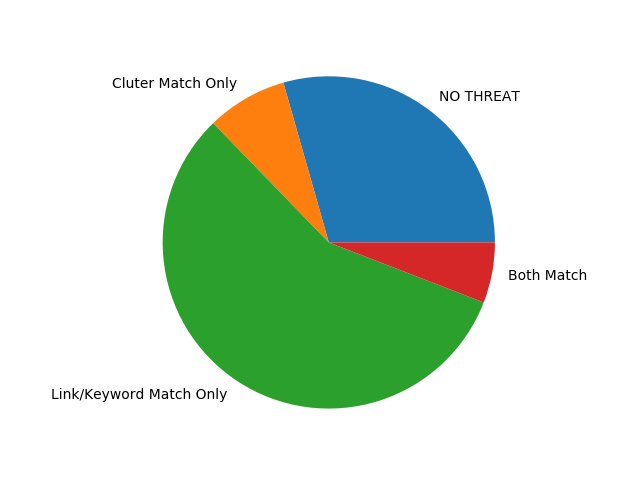
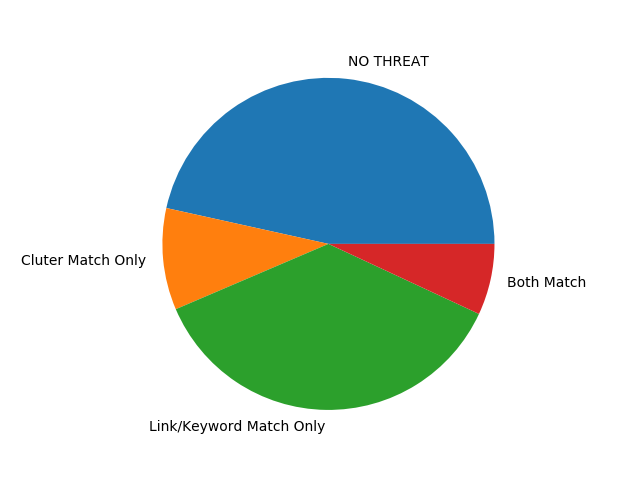
Suspicious classifier can now be set up with custom parameters

diff --git a/extractHref/SuspiciousClassifier.py b/extractHref/SuspiciousClassifier.py
@@ -4,19 +4,23 @@ import os, sys, re
 from matplotlib import pyplot as plt
 import classify_new
 import operator
+import numpy as np
 
 class SuspiciousClassifier(object):
 
-	def __init__(self, max_emails=100):
+	def __init__(self, max_emails=100,phishing_cluster=1):
 		self.folder = ""
 		self.filename = ""
 		self.extractor = ExtractHRef()
 		self.max_emails = max_emails
+		self.phish_clust = phishing_cluster
 	def set_folder(self, f):
 		self.folder = f
 
 	def set_filename(self, f):
 		self.filename = f
+	def set_freq_data(self,folder, f1, f2, f3):
+		classify_new.set_freq_data(folder, f1, f2, f3)
 
 	def check_level(self, links, score, raw):
 		# check links for suspicious entries #
@@ -28,7 +32,7 @@ class SuspiciousClassifier(object):
 		print("Sus_link: %s" % sus_link)
 
 		keyword_match = 0
-		if score >= 2:
+		if score >= 3:
 			keyword_match = 1
 		
 		print("keyword_match %s" % keyword_match)
@@ -52,9 +56,10 @@ class SuspiciousClassifier(object):
 		clust = max(scs.items(), key=operator.itemgetter(1))[0] 
 		print(scs)
 		print(clust)
-
-		clust = max(classify_new.freqPhishingTest(body_content))
-		if clust == "Cluster 1 Score":
+		cluster_val = 0
+		print(str(self.phish_clust))
+		print(str(self.phish_clust) in clust)
+		if str(self.phish_clust) in clust:
 			cluster_val = 1
 		return ((analysis_val << 1) + cluster_val)
 
@@ -76,16 +81,17 @@ class SuspiciousClassifier(object):
 			print(idx)
 			if idx >= self.max_emails:
 				break
-
-		print("NO Threat Email")
-		print(all_raw[all_levels.index(0b00)])
-		print("Cluster Match Only")
-		print(all_raw[all_levels.index(0b01)])
-		print("Link/Keyword Match Only")
-		print(all_raw[all_levels.index(0b10)])
-		print("Both Match")
-		print(all_raw[all_levels.index(0b11)])
-
+		try:
+			print("NO Threat Email")
+			print(all_raw[all_levels.index(0b00)])
+			print("Cluster Match Only")
+			print(all_raw[all_levels.index(0b01)])
+			print("Link/Keyword Match Only")
+			print(all_raw[all_levels.index(0b10)])
+			print("Both Match")
+			print(all_raw[all_levels.index(0b11)])
+		except:
+			pass
 		labels = ["NO THREAT", "Cluter Match Only", "Link/Keyword Match Only", "Both Match"]
 		vals = [0b00, 0b01, 0b10, 0b11]
 
@@ -95,6 +101,9 @@ class SuspiciousClassifier(object):
 		ax1.axis('equal')
 
 		plt.savefig("./pie_chart.png")
+		
+		dangerous = [all_raw[i] for i in [i for i, x in enumerate(all_levels) if x == 0b11]]
+		np.savetxt("high_threat_output.csv", dangerous, delimiter=";", fmt='%s')
 
 if __name__ == "__main__":
 	f = "filename"

diff --git a/extractHref/classify_new.py b/extractHref/classify_new.py
@@ -2,20 +2,32 @@
 freq1 = "/home/nsolomon/CompNetSecProj/guerrilla_data/Cluster_0_Features.txt"
 freq2 = "/home/nsolomon/CompNetSecProj/guerrilla_data/Cluster_1_Features.txt"
 freq3 = "/home/nsolomon/CompNetSecProj/guerrilla_data/Cluster_2_Features.txt"
+import os
+lines1 = None
+lines2 = None
+lines3 = None
 
-f1Handle = open(freq1)
-f2Handle = open(freq2)
-f3Handle = open(freq3)
-lines1 = f1Handle.readlines()
-lines2 = f2Handle.readlines()
-lines3 = f3Handle.readlines()
-f1Handle.close()
-f2Handle.close()
-f3Handle.close()
+def set_freq_data(folder, f1, f2, f3):
+	global lines1, lines2, lines3
+	f1 = os.path.join(folder, f1)
+	f2 = os.path.join(folder, f2)
+	f3 = os.path.join(folder, f3)
+	print(f1)
+	print(f2)
+	print(f3)
+	f1Handle = open(f1)
+	f2Handle = open(f2)
+	f3Handle = open(f3)
+	lines1 = f1Handle.readlines()
+	lines2 = f2Handle.readlines()
+	lines3 = f3Handle.readlines()
+	f1Handle.close()
+	f2Handle.close()
+	f3Handle.close()
 
 def freqPhishingTest(bodycontent):
 	"Return score of email per cluster"
-
+	global lines1, lines2, lines3
 
 	data1 = {}
 	data2 = {}

diff --git a/extractHref/AnalyzeWeb.py b/extractHref/AnalyzeWeb.py
@@ -2,7 +2,7 @@ import requests
 import csv
 import numpy as np 
 import unicodedata
-keyword = ['password','username','log in', 'sign in', 'login', 'credit card', 'creditcard', 'ssn', 'social security', 'pin']
+keyword = ['password','username','log in', 'sign in', 'login', 'credit card', 'creditcard', 'ssn', 'social security', 'pin', 'account number', 'routing number']
 testlink ='http://www.b.com'
 #  Call the calssifyLink() function to get classficataion result 
 #  if return value is 1, it means it contains login,password, sign in information
@@ -17,7 +17,7 @@ def hasCredential(str):
         result = content.find(key)
         if result != -1:
             matches +=1
-    if matches >= 3:
+    if matches >= 4:
         return 1
     return 0
 def classifyLink(str):

diff --git a/extractHref/ExtractHRefClass.py b/extractHref/ExtractHRefClass.py
@@ -17,7 +17,7 @@ class ExtractHRef(object):
         lines = fHandle.readlines()
         fHandle.close()
         img_ext = ['.jpg','.gif','.png']
-        sensitive_list=['name', 'address', 'card', 'telephone', 'age']
+        sensitive_list=['name', 'address', 'card', 'telephone', 'age', 'routing number', 'account number', 'bank number', 'bank']
         self.raw_data = lines
         for l in lines:
             # performing keywords scan
